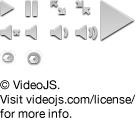
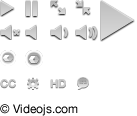
Added captions button and display styles.

diff --git a/design/video-js.css b/design/video-js.css
@@ -51,8 +51,13 @@ body.vjs-full-window {
   position: relative; width: 100%; max-height: 100%; 
 }
 
-/* Subtiles Styles */
-.video-js .vjs-subtitles { color: #fff; font-size: 20px; text-align: center; position: absolute; bottom: 40px; left: 0; right: 0; }
+/* Text Track Styles */
+.video-js .vjs-text-track {
+  display: none; color: #fff; font-size: 2em; text-align: center; position: absolute; bottom: 2em; left: 1em; right: 1em;
+  background: rgb(0, 0, 0); background: rgba(0, 0, 0, 0.25);
+}
+.video-js .vjs-subtitles { color: #fff; }
+.video-js .vjs-captions { color: #fc6; }
 
 /* Fading sytles, used to fade control bar. */
 .vjs-fade-in {
@@ -425,3 +430,20 @@ div.vjs-loading-spinner .ball7 { opacity: 0.87; position:absolute; left: 0px; to
 
 div.vjs-loading-spinner .ball8 { opacity: 1.00; position:absolute; left: 6px; top: 6px; width: 13px; height: 13px; background: #fff;
   border-radius: 13px; -webkit-border-radius: 13px; -moz-border-radius: 13px; border: 1px solid #ccc; }
+
+/* Captions Button
+-------------------------------------------------------------------------------- */
+.vjs-default-skin .vjs-captions-control { 
+  float: right; margin: 0.2em 1em 0 0; padding: 0; width: 3em; height: 2em; cursor: pointer !important;
+  border: 1px solid #111; -moz-border-radius: 0.3em; -webkit-border-radius: 0.3em; border-radius: 0.3em; 
+  background: #4d4d4d;
+  background: -moz-linear-gradient(top,  #4d4d4d 0%, #3f3f3f 50%, #333333 50%, #252525 100%);
+  background: -webkit-gradient(linear, left top, left bottom, color-stop(0%,#4d4d4d), color-stop(50%,#3f3f3f), color-stop(50%,#333333), color-stop(100%,#252525));
+  background: -webkit-linear-gradient(top,  #4d4d4d 0%,#3f3f3f 50%,#333333 50%,#252525 100%);
+  background: -o-linear-gradient(top,  #4d4d4d 0%,#3f3f3f 50%,#333333 50%,#252525 100%);
+  background: -ms-linear-gradient(top,  #4d4d4d 0%,#3f3f3f 50%,#333333 50%,#252525 100%);
+  background: linear-gradient(top,  #4d4d4d 0%,#3f3f3f 50%,#333333 50%,#252525 100%);
+}
+/* Play Icon */
+.vjs-default-skin .vjs-captions-control div { background: url('video-js.png') 0px -75px; width: 16px; height: 16px; margin: 0.2em auto 0; padding: 0; }
+

diff --git a/src/controls.js b/src/controls.js
@@ -234,7 +234,8 @@ _V_.ControlBar = _V_.Component.extend({
       "remainingTimeDisplay": {},
       "progressControl": {},
       "volumeControl": {},
-      "muteToggle": {}
+      "muteToggle": {},
+      "captionsButton": {}
     }
   },
 
@@ -803,7 +804,7 @@ _V_.TextTrackDisplay = _V_.Component.extend({
 
   createElement: function(){
     return this._super("div", {
-      className: "vjs-" + this.trackType
+      className: "vjs-" + this.trackType + " vjs-text-track"
     });
   },
 
@@ -834,5 +835,27 @@ _V_.ChaptersDisplay = _V_.TextTrackDisplay.extend({
 _V_.DescriptionsDisplay = _V_.TextTrackDisplay.extend({
 
   trackType: "descriptions"
+
+});
+
+/* Captions Button
+================================================================================ */
+_V_.CaptionsButton = _V_.Button.extend({
+
+  buttonText: "Captions",
+
+  buildCSSClass: function(){
+    return "vjs-captions-control " + this._super();
+  },
+
+  onClick: function(){
+    this.player.textTrackValue("captions", "Hi<br>hi2")
+    var captionsDisplay = this.player.captionsDisplay;
+    if (captionsDisplay.el.style.display == "block") {
+      captionsDisplay.hide();
+    } else {
+      captionsDisplay.show();
+    }
+  }
 
 });

diff --git a/src/tracks.js b/src/tracks.js
@@ -30,8 +30,13 @@ _V_.Track.prototype = {
         lines = srcContent.split("\n"),
         line = "";
 
-    for (var i=0; i<lines.length; i++) {
+    for (var i=1, j=lines.length; i<j; i++) {
+      // Line 0 should be 'WEBVTT', so skipping i=0
+
+      _V_.log("line", lines[i])
+
       line = _V_.trim(lines[i]); // Trim whitespace and linebreaks
+
       if (line) { // Loop until a line with content
 
         // First line - Number
@@ -48,9 +53,12 @@ _V_.Track.prototype = {
 
         // Additional lines - Cue Text
         text = [];
-        for (var j=i; j<lines.length; j++) { // Loop until a blank line or end of lines
+        for (var m=i,n=lines.length; m<n; m++) { // Loop until a blank line or end of lines
+
+          _V_.log(lines[i+1])
+
           line = _V_.trim(lines[++i]);
-          if (!line) { break; }
+          if (!line) { break; } // Text is done
           text.push(line);
         }
         cue.text = text.join('<br/>');

diff --git a/src/core.js b/src/core.js
@@ -67,7 +67,8 @@ VideoJS.options = {
     "loadingSpinner": {},
     "bigPlayButton": {},
     "controlBar": {},
-    "subtitlesDisplay": {}
+    "subtitlesDisplay": {},
+    "captionsDisplay": {}
   }
 
   // components: [
